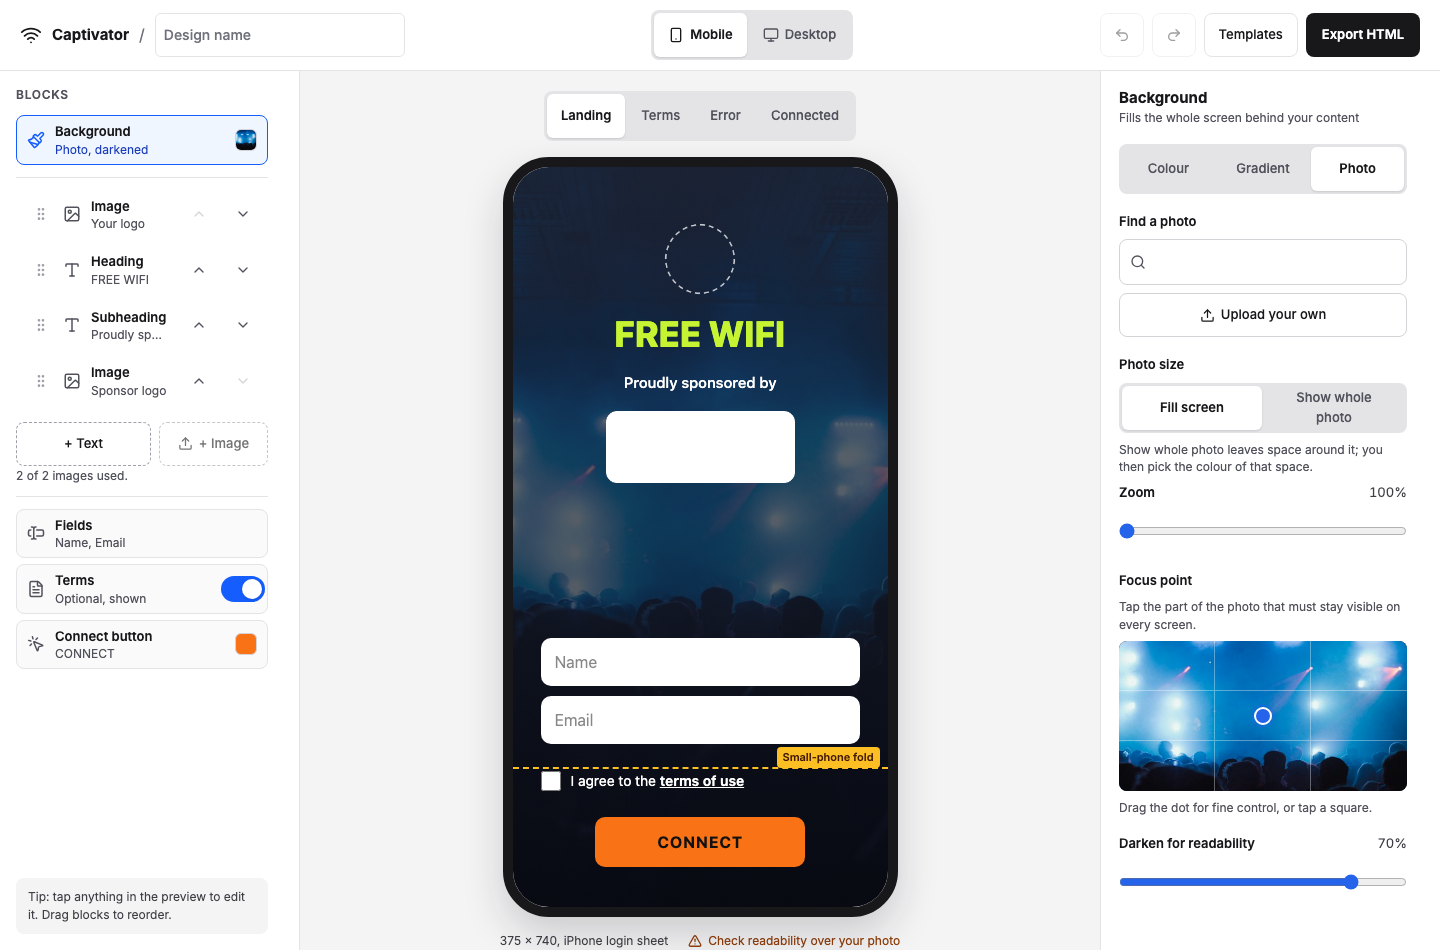
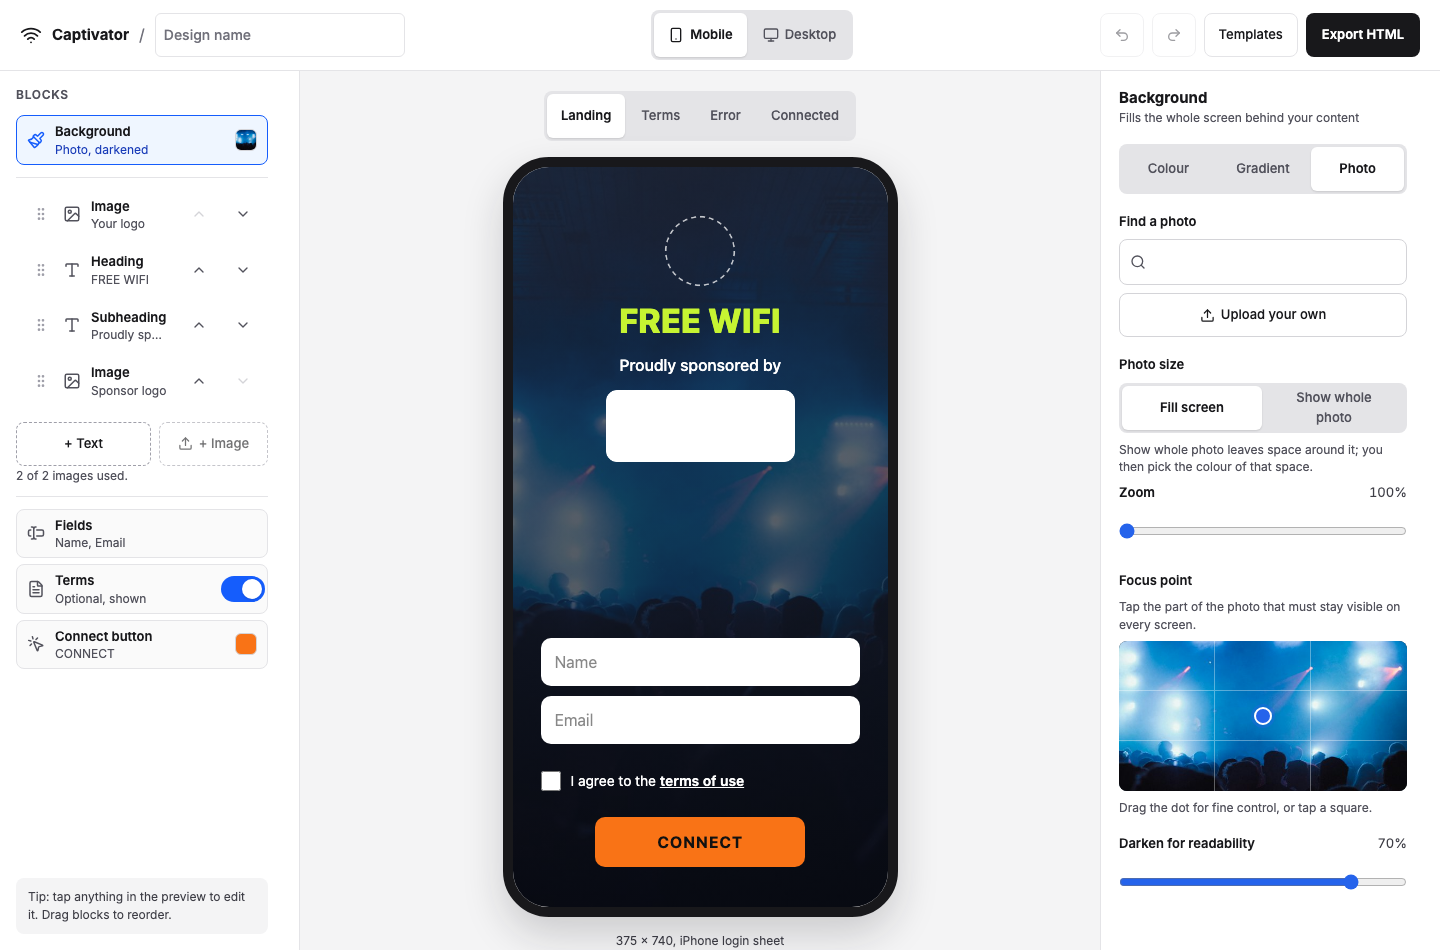
Make the no-contrast-check tests able to fail, and bring the README up to date (T-046)
Review found the preview test passed with the check still present. Both
tests now set white text on white. WEIGHT is local to TextBlock again,
stale comments go, and a decision retires the remaining contrast-check
decisions. The README screenshot no longer shows the readability
notice, and the README records the T-043 to T-045 spec departures.

diff --git a/src/editor/PreviewStage.test.tsx b/src/editor/PreviewStage.test.tsx
@@ -45,12 +45,19 @@ function setTermsMode(mode: "checkbox" | "off") {
 }
 
 describe("PreviewStage", () => {
+  it("shows no contrast check, even for white text on white (T-046)", () => {
+    state().updateBackground({ type: "colour", colour: "#FFFFFF" });
+    state().updateBlock(HEADING_ID, { colour: "#FFFFFF" });
+    render(<PreviewStage />);
+    expect(screen.queryByText(/readab|hard to read|\d:1/i)).not.toBeInTheDocument();
+    // The stage's only live region holds no notice: the fit check is stubbed off and nothing failed.
+    expect(screen.getByRole("status")).toBeEmptyDOMElement();
+  });
+
   it("renders the design in the phone frame and follows every store change", () => {
     render(<PreviewStage />);
     expect(heading()).toHaveTextContent("FREE WIFI");
     expect(screen.getByText("375 × 740, iPhone login sheet")).toBeInTheDocument();
-    // No contrast check under the preview.
-    expect(screen.queryByText(/readable|Hard to read|on the background/)).not.toBeInTheDocument();
 
     act(() => {
       state().updateBlock(HEADING_ID, { text: "HELLO" });

diff --git a/src/editor/panels/TextPanel.test.tsx b/src/editor/panels/TextPanel.test.tsx
@@ -113,9 +113,11 @@ describe("TextPanel", () => {
     expect(heading().colour).toBe("#123ABC");
   });
 
-  it("shows no contrast rating: the customer judges readability themselves", () => {
+  it("shows no contrast rating, even for white text on white (T-046)", () => {
+    useStore.getState().updateBackground({ type: "colour", colour: "#FFFFFF" });
+    useStore.getState().updateBlock(HEADING_ID, { colour: "#FFFFFF" });
     render(<TextPanel id={HEADING_ID} />);
-    expect(screen.queryByText(/Easy to read|Hard to read|Check readability/)).not.toBeInTheDocument();
+    expect(screen.queryByText(/readab|hard to read|\d:1/i)).not.toBeInTheDocument();
     expect(screen.queryByRole("status")).not.toBeInTheDocument();
   });
 

diff --git a/src/splash/blocks/TextBlock.tsx b/src/splash/blocks/TextBlock.tsx
@@ -1,8 +1,8 @@
 import type { CSSProperties, JSX } from "react";
 import type { TextBlockSpec } from "../../lib/types";
 
-// Font weight per role. The editor's contrast checks use it to decide whether text counts as large.
-export const WEIGHT: Record<TextBlockSpec["role"], number> = { heading: 800, subheading: 500, body: 400 };
+// Font weight per role.
+const WEIGHT: Record<TextBlockSpec["role"], number> = { heading: 800, subheading: 500, body: 400 };
 
 export type TextBlockProps = { block: TextBlockSpec; as: "h1" | "h2" | "p" };
 

diff --git a/src/lib/design-schema.ts b/src/lib/design-schema.ts
@@ -104,7 +104,7 @@ const Form = z.object({
     label: z.string().min(1).max(60), // "I agree to the"
     linkText: z.string().min(1).max(30), // "terms of use"
     body: z.string().min(1).max(8000), // shown in an in-page sheet; external links won't load pre-auth
-    textColour: Hex, // contrast-checked against the background like any text
+    textColour: Hex, // the checkbox label's colour
     version: z.number().int().positive(), // bump on edit; recorded with each acceptance
   }),
   button: z.object({

diff --git a/src/editor/panels/TextPanel.tsx b/src/editor/panels/TextPanel.tsx
@@ -75,7 +75,6 @@ export function TextPanel({ id }: { id: string }) {
 
       <ColourField label="Colour" value={block.colour} onChange={(colour) => updateBlock(id, { colour })} />
 
-
       <p className="text-xs leading-normal text-zinc-600">
         Want a two-colour headline? Add a second Text block and give it its own colour.
       </p>

diff --git a/.project/STATUS.md b/.project/STATUS.md
@@ -11,7 +11,7 @@ tags: [project, captivator, status]
 
 ## Summary
 
-Captivator, the Phase 0 MVP editor for branded guest Wi-Fi splash pages, is built and deployed to Cloudflare Workers with vinext at https://app.captivator.workers.dev. All 46 tickets in 11 waves are done, all nine milestones are closed, and nothing was cut, stretch work included (`tickets/INDEX.md`). The editor has a live phone and browser preview, the block list with drag to reorder, undo and redo, the small-phone fit check, the logo palette, Unsplash search, and the Background, Text, Image, Fields, Connect button and Terms panels. It renders four guest screens from one `SplashPage` and exports a standalone HTML file under the 100 KB budget. Every ticket was reviewed and security-audited, and the guest page was splash-audited. The final full audit found one low, missing security headers, now fixed (`review/2026-10-23-security-full-review.md`). 831 tests pass, and the README describes what shipped, the key decisions and a path to production that assumes no router vendor or authentication method. You ran the real-phone checklist (`review/phone-checklist.md`): 15 checks passed, including the live URL over mobile data, and you accepted the other 6 as skipped, so they're recorded as unverified. Fixes you asked for after the run landed as `T-036` to `T-046`: 16px is now the smallest text size, no template opens with the small-phone warning, and the contrast check is gone because it confused customers. The Unsplash fix passed its re-check, and the Android export fix (`T-038`) wasn't re-checked. The final deploy is green and the security headers are live. All 11 waves are closed.
+Captivator, the Phase 0 MVP editor for branded guest Wi-Fi splash pages, is built and deployed to Cloudflare Workers with vinext at https://app.captivator.workers.dev. All 46 tickets in 11 waves are done, all nine milestones are closed, and nothing was cut, stretch work included (`tickets/INDEX.md`). The editor has a live phone and browser preview, the block list with drag to reorder, undo and redo, the small-phone fit check, the logo palette, Unsplash search, and the Background, Text, Image, Fields, Connect button and Terms panels. It renders four guest screens from one `SplashPage` and exports a standalone HTML file under the 100 KB budget. Every ticket was reviewed and security-audited, and the guest page was splash-audited. The final full audit found one low, missing security headers, now fixed (`review/2026-10-23-security-full-review.md`). 832 tests pass, and the README describes what shipped, the key decisions and a path to production that assumes no router vendor or authentication method. You ran the real-phone checklist (`review/phone-checklist.md`): 15 checks passed, including the live URL over mobile data, and you accepted the other 6 as skipped, so they're recorded as unverified. Fixes you asked for after the run landed as `T-036` to `T-046`: 16px is now the smallest text size, no template opens with the small-phone warning, and the contrast check is gone because it confused customers. The Unsplash fix passed its re-check, and the Android export fix (`T-038`) wasn't re-checked. The final deploy is green and the security headers are live. All 11 waves are closed.
 
 ## In progress
 

diff --git a/README.md b/README.md
@@ -28,7 +28,7 @@ Unsplash photo search is optional locally. To turn it on, copy `.dev.vars.exampl
 
 - **Logo upload:** PNG, JPEG, WebP or SVG, with required alt text. Uploads are downscaled in the browser, and SVGs are turned into raster images.
 - **Background image or colour:** a solid colour, a two-colour gradient in three directions, or a photo. A photo can fill the screen or show in full, and it has zoom, a focus point (presets or a draggable dot) and a darken slider.
-- **Text with colour and size:** heading, subheading and body styles, each with a size slider and a colour picker.
+- **Text with colour and size:** heading, subheading and body styles, each with a size slider (16px to 56px) and a colour picker.
 - **Up to two of Name, Email and Phone:** each field gets the right `type`, `autocomplete` and `inputmode`. You can set the input colours.
 - **Connect button colours:** button and text colour, solid or outline style, and the label.
 - **Live mobile and desktop preview:** a 375×740 phone frame and a 1280×800 browser frame. Both update as you type or drag.
@@ -66,6 +66,9 @@ Other decisions that changed scope or departed from the spec:
 - **Unsplash search cache:** results are cached for an hour in vinext's KV-backed data cache, because Workers don't cache on `s-maxage` ([decision](.project/decisions/T-031-search-cached-by-fetch-revalidate.md)).
 - **Unsplash rate limit:** each client is throttled to 10 calls per 60 s with a Workers Rate Limiting binding. On the demo tier, one client could still use up the hourly quota, and an IPv6 client could rotate addresses. Both risks are accepted for the demo ([quota](.project/decisions/T-031-unsplash-quota-risk-accepted.md), [IPv6](.project/decisions/T-031-ipv6-rotation-accepted.md)).
 - **Stretch work:** scheduled like the rest of the work rather than held back, so all of it shipped ([decision](.project/decisions/general-stretch-tickets-scheduled.md)).
+- **Smallest text size:** 16px, not the spec's 12px, so guest text stays readable. Saved designs with text from 12px to 15px are raised to 16px when they load ([decision](.project/decisions/T-043-text-size-floor-16.md)).
+- **Template spacing:** the guest page's gaps and padding were tightened so no template opens with the small-phone warning ([decision](.project/decisions/T-044-tighter-column-spacing.md)).
+- **Colour suggestion dots:** 30px wide and 44px tall, so a row of eight fits without wrapping. That's narrower than the spec's 44px editor targets, but above WCAG's 24px minimum ([decision](.project/decisions/T-045-swatch-width-departs-from-spec.md)).
 - **Editor layout:** on wide screens, each editor column scrolls independently, so the preview stays in place. This fixes a failure found during the checklist run ([decision](.project/decisions/T-036-columns-scroll-when-side-by-side.md)).
 
 ## Path to production

diff --git a/.project/tickets/T-046-remove-contrast-check.md b/.project/tickets/T-046-remove-contrast-check.md
@@ -20,7 +20,11 @@ touches:
   - src/editor/panels/TextPanel.test.tsx
   - src/editor/panels/TermsPanel.tsx
   - src/editor/panels/TermsPanel.test.tsx
+  - src/splash/blocks/TextBlock.tsx
+  - src/lib/design-schema.ts
+  - .claude/agents/ticket-planner.md
   - README.md
+  - docs/editor.png
   - CLAUDE.md
 cut_rank:
 updated: 2026-10-23
@@ -34,12 +38,17 @@ The user: "Let's remove the WACG contrast checker. It's too confusing for the us
 ## Scope
 - Remove the readability notice beside the preview caption, its one-tap Fix, and the contrast lines in the Text and Terms panels.
 - Delete `readability.ts` and `ReadabilityCheck.tsx` with their tests. Keep the `contrast.ts` helpers the renderer uses, and drop what only the check used (`formatRatio`, the photo-average parameter).
-- Update the README and CLAUDE.md so they no longer describe a contrast check.
+- Update the README and CLAUDE.md so they no longer describe a contrast check, and retake the README screenshot, which showed the readability notice.
+- While checking the README, add the departures from the spec made in T-043 to T-045.
 
 ## Acceptance criteria
-- [x] White text on a white background shows no warning, ratio or Fix anywhere in the editor. *Tests in `PreviewStage.test.tsx` and `TextPanel.test.tsx` check it.*
+- [x] White text on a white background shows no warning, ratio or Fix anywhere in the editor. *Tests in `PreviewStage.test.tsx` and `TextPanel.test.tsx` set white on white and check it. The PreviewStage test fails against the code before this ticket.*
 - [x] The renderer's own colour picks (terms sheet, error text, Connected) are unchanged. *Their tests pass unchanged.*
-- [x] `npm test` (831 tests), `npx tsc --noEmit` and `npm run lint` pass.
+- [x] `npm test` (832 tests), `npx tsc --noEmit` and `npm run lint` pass.
 
 ## Decisions
 - [`T-046-contrast-check-removed.md`](../decisions/T-046-contrast-check-removed.md): The editor has no contrast check; the customer judges readability themselves (user)
+- [`T-046-retire-remaining-contrast-decisions.md`](../decisions/T-046-retire-remaining-contrast-decisions.md): Four more decisions about the removed check are retired, and the Terms panel's wording inputs stand
+
+## Notes
+Code review (changes required, then fixed): the first preview test couldn't fail, so both tests now set white on white. The review also caught a stale `WEIGHT` export and comments, and decisions the first supersede list missed.

diff --git a/.project/decisions/T-046-retire-remaining-contrast-decisions.md b/.project/decisions/T-046-retire-remaining-contrast-decisions.md
@@ -1,0 +1,28 @@
+---
+title: "Four more decisions about the removed contrast check are retired, and the Terms panel's wording inputs stand"
+type: decision
+project: captivator
+ticket: T-046
+decided_by: main session
+supersedes:
+  - T-003-format-ratio-rounds-down.md
+  - T-013-role-weights-shared-with-splash.md
+  - T-027-readability-check-test-file-added.md
+  - T-035-fix-tests-in-readability-test-file.md
+updated: 2026-10-23
+tags: [project, captivator, decision, contrast, editor]
+---
+# Four more decisions about the removed contrast check are retired, and the Terms panel's wording inputs stand
+
+## Context
+Code review of T-046 found decisions that still read as live although what they describe is gone: `formatRatio`, the Text panel's import of `WEIGHT`, and the two readability test files. [`T-046-contrast-check-removed.md`](T-046-contrast-check-removed.md) also supersedes `T-020-panels-share-rate-text.md` as a whole, but only that file's contrast half was removed.
+
+## Decision
+Supersede the four decisions above. `WEIGHT` is now local to `TextBlock.tsx`. From `T-020-panels-share-rate-text.md`, these parts still hold: the shared `WordingInput`, the named drafts, no counters on the wording inputs, the "Checkbox wording" fieldset and the sample's 14px text and 20px box.
+
+## Alternatives
+- **Edit the earlier decision files:** committed decisions are never edited.
+- **Leave them:** an agent reading the log would treat the missing ratio, Fix or test files as defects.
+
+## Consequences
+No live decision describes an editor contrast check. `T-003-large-text-includes-bold.md` stays live, because the Connected screen uses `requiredRatio`.

diff --git a/.claude/agents/ticket-planner.md b/.claude/agents/ticket-planner.md
@@ -57,7 +57,7 @@ type: ticket
 project: captivator
 status: todo
 priority: P0            # P0 = the brief's minimum, Export HTML and persistence (never cut)
-                        # P1 = planned extras; P2 = stretch (Unsplash, dnd-kit, one-tap Fix)
+                        # P1 = planned extras; P2 = stretch (Unsplash, dnd-kit)
 milestone: 3            # spec build-plan step 1–9
 estimate: 20            # minutes
 depends_on: [T-001, T-002]
